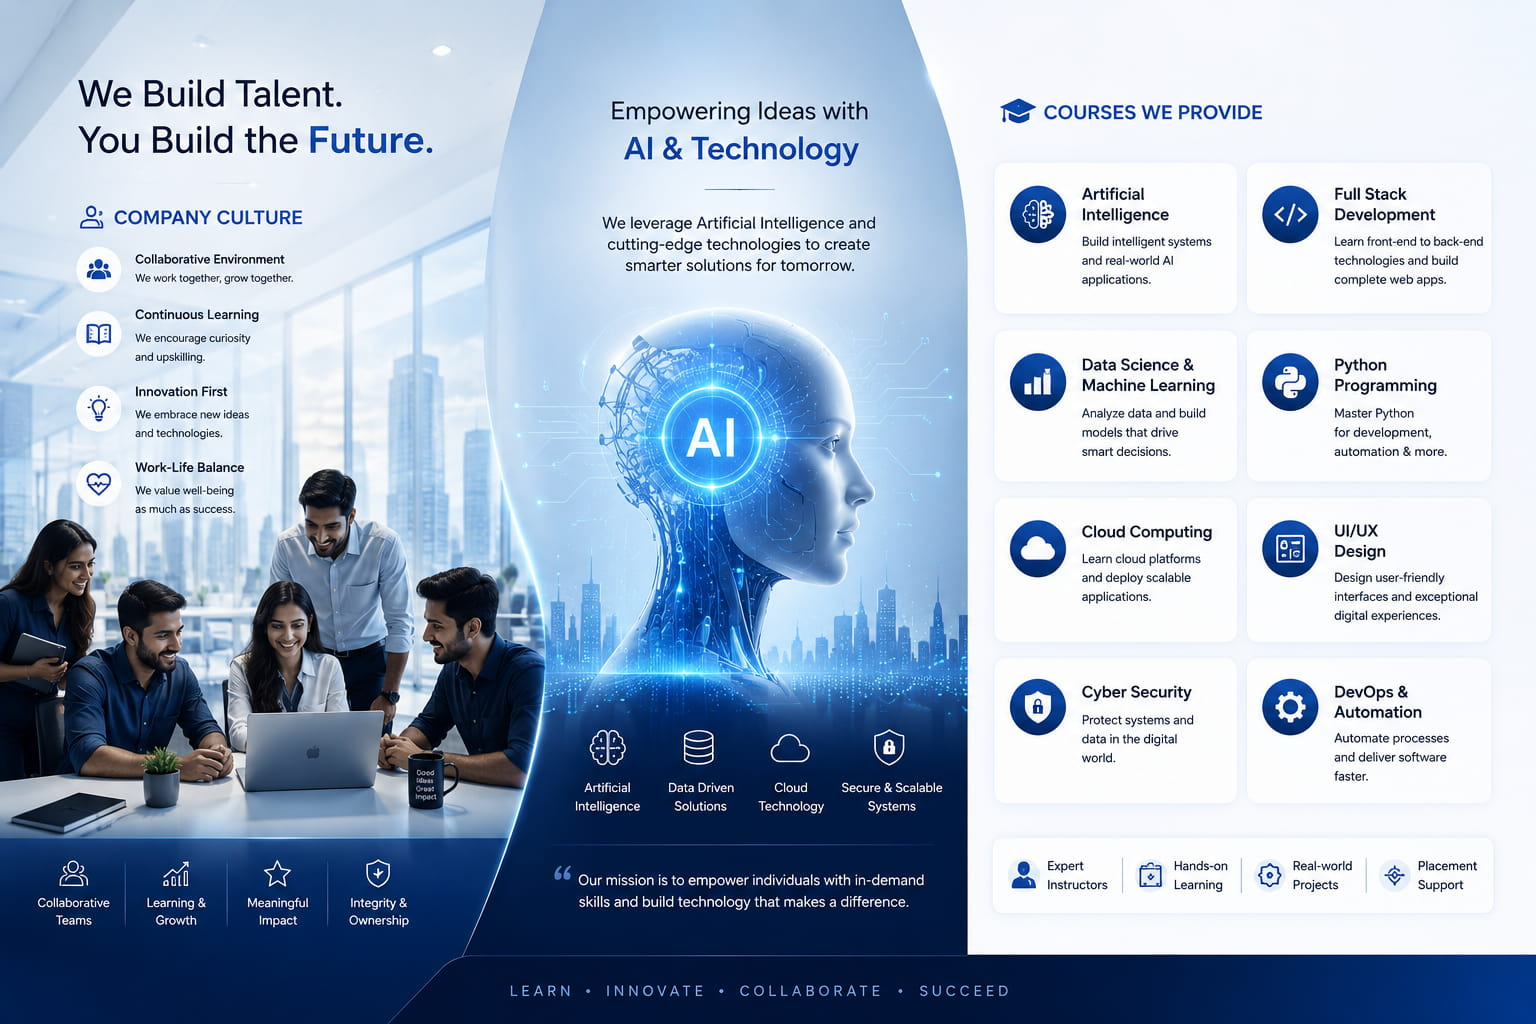
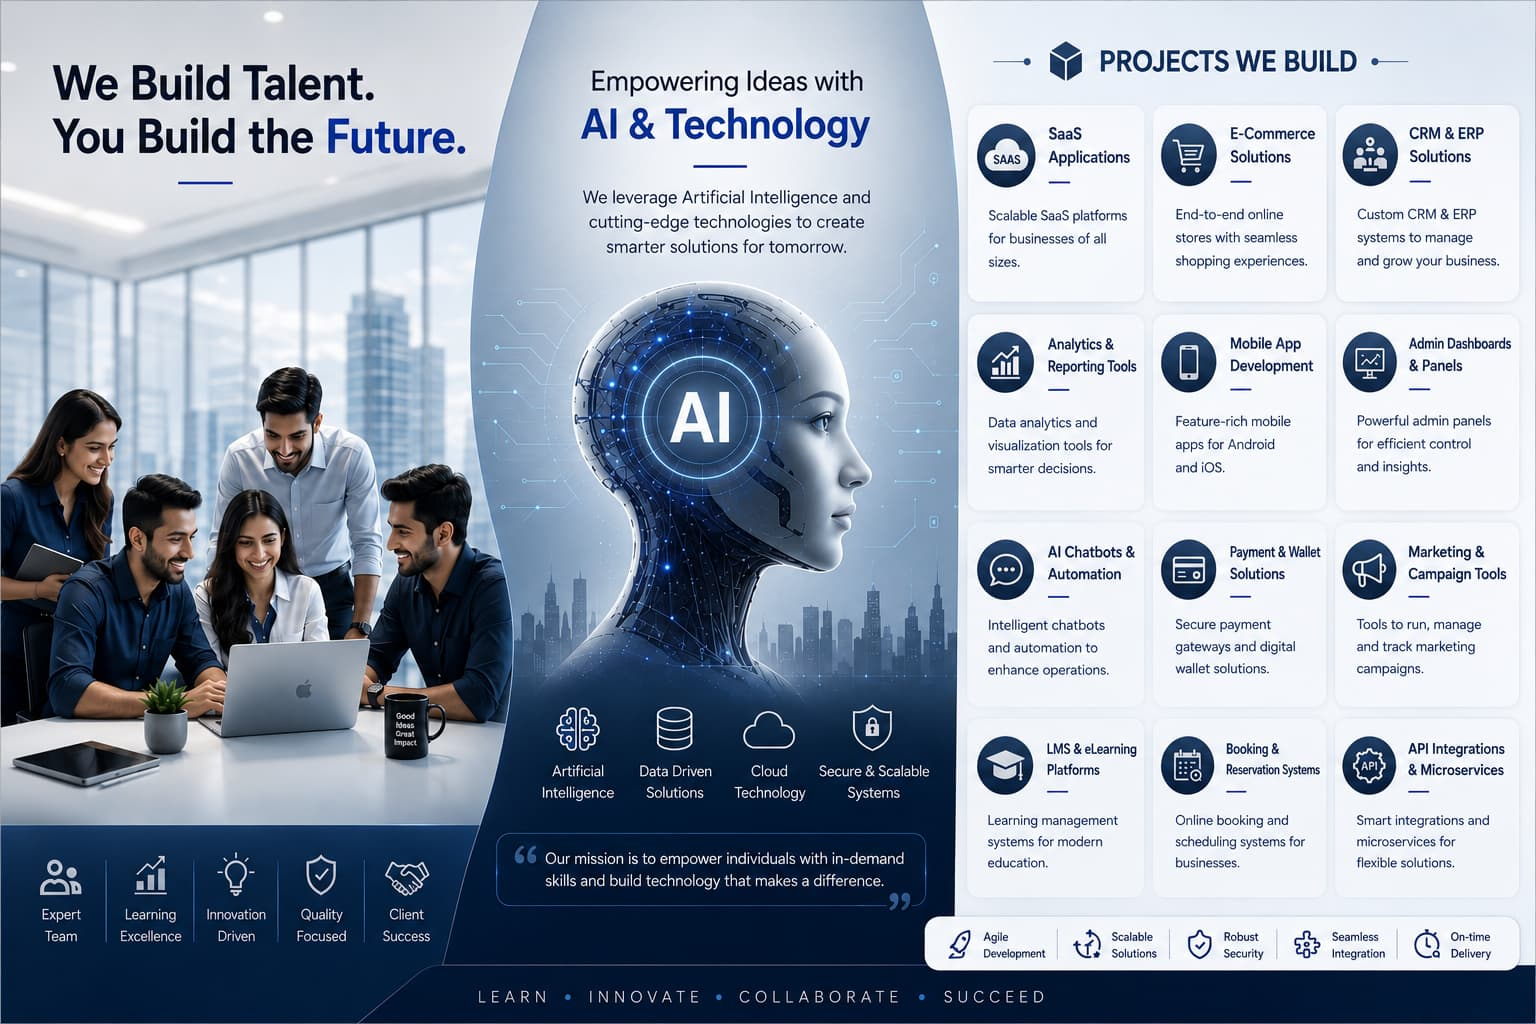
changes

diff --git a/src/Home.jsx b/src/Home.jsx
@@ -85,12 +85,7 @@ const Home = () => {
     <Box
   sx={{
     width: "100%",
-    height: {
-      xs: "200px",
-      sm: "280px",
-      md: "420px",
-      lg: "650px", 
-    },
+  
     position: "relative",
     overflow: "hidden",
   }}
@@ -101,8 +96,8 @@ const Home = () => {
           alt="IT Company Banner"
           sx={{
             width: "100%",
-            height: "120%",
-            // objectFit: "cover",
+            height: {md:"100%",lg:"100%",sm:"100%",xs:"100%"},
+            objectFit: "cover",
             display: "block",
           }}
         />

diff --git a/src/Nav/Header.jsx b/src/Nav/Header.jsx
@@ -79,7 +79,7 @@ const Header = () => {
               sx={{
                 color: "#163372",
                 fontWeight: 800,
-                fontSize: { xs: "1.4rem", md: "1.8rem" },
+                fontSize: { xs: "1.2rem", md: "1.8rem" },
                 fontFamily: "'Poppins', sans-serif",
                 letterSpacing: "1px",
               }}
